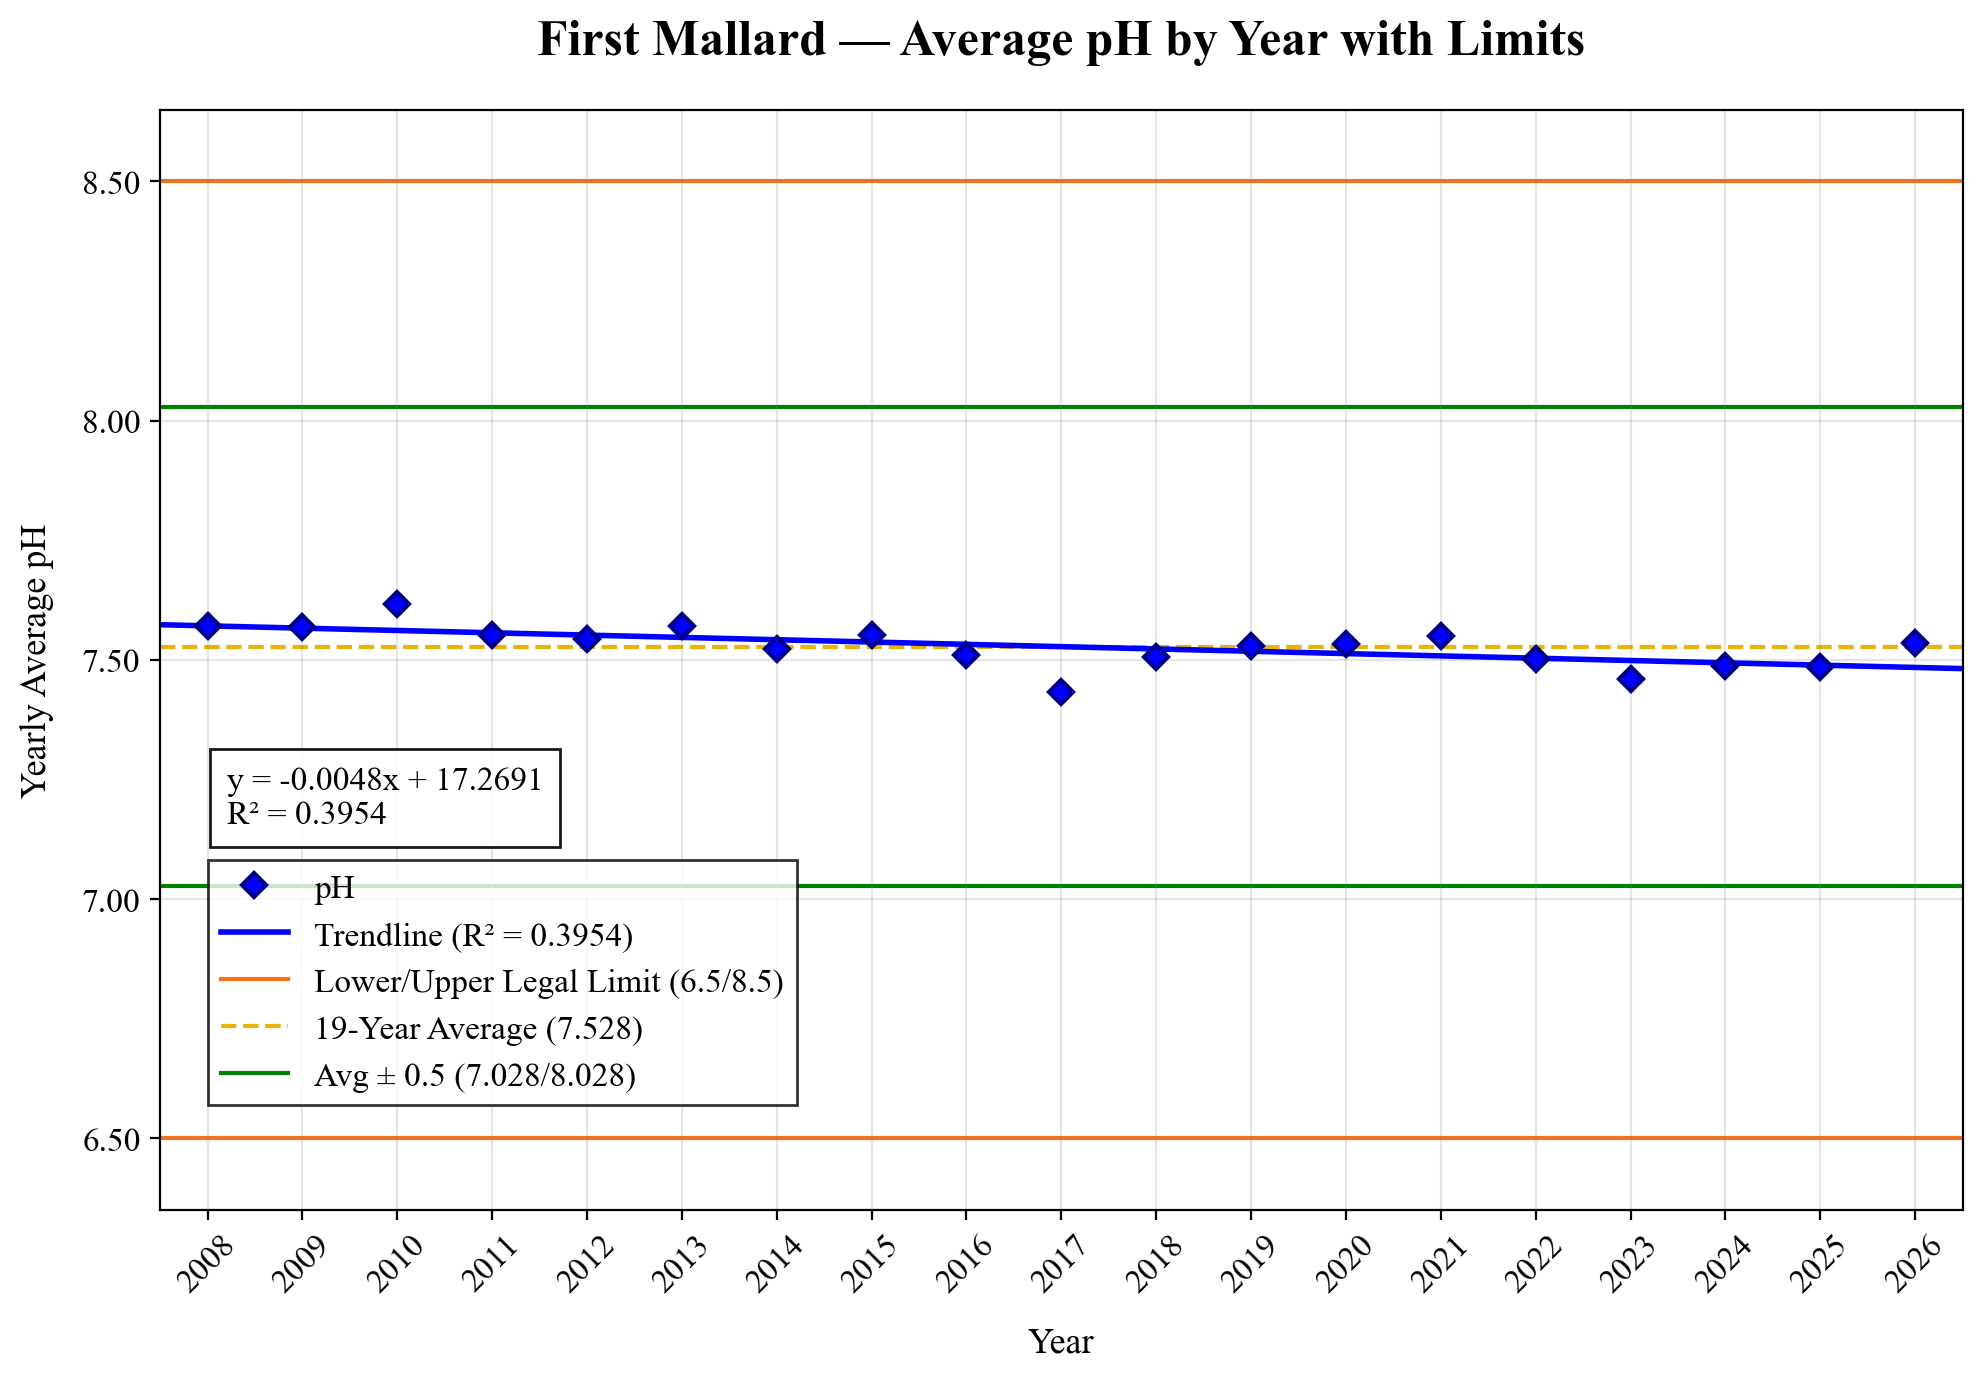
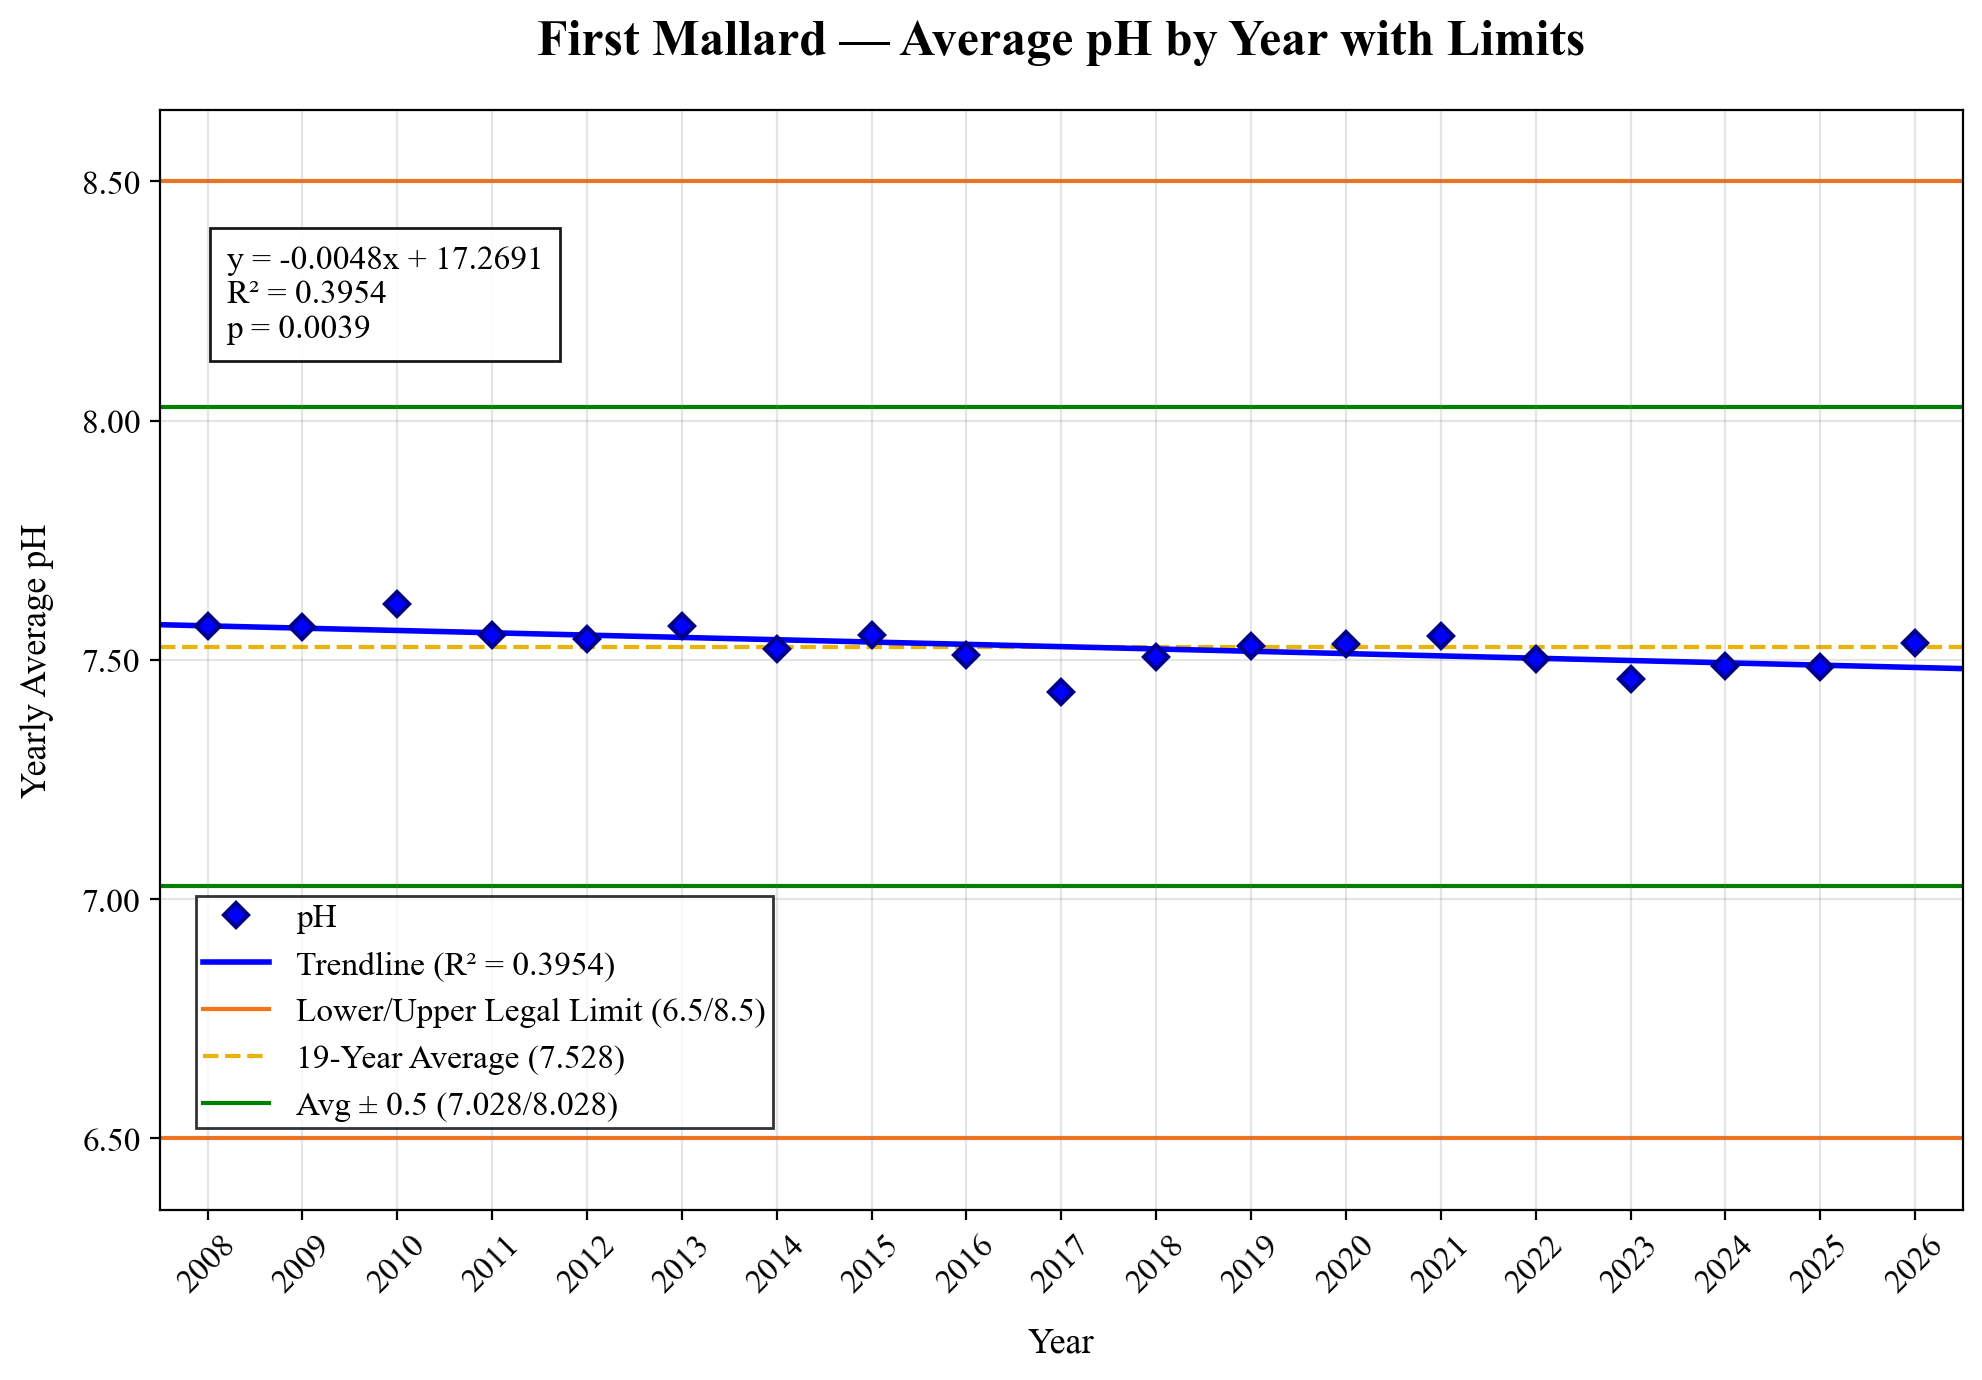
Update First Mallard trend graph with properly centered legend and equation box layout

diff --git a/app.js b/app.js
@@ -313,9 +313,9 @@ function handleMarkerClick(siteName, isState, stats) {
         ? "Statewide aggregated visualization suite."
         : "Station-specific visualization suite.";
         
-    trendGraph.src = `assets/${safeName}_trend.png?v=11`;
-    boxGraph.src = `assets/${safeName}_box.png?v=11`;
-    barGraph.src = `assets/${safeName}_bar.png?v=11`;
+    trendGraph.src = `assets/${safeName}_trend.png?v=12`;
+    boxGraph.src = `assets/${safeName}_box.png?v=12`;
+    barGraph.src = `assets/${safeName}_bar.png?v=12`;
     
     if (stats.equation && stats.r2 && stats.equation !== "N/A") {
         trendStats.innerHTML = `${stats.equation} &nbsp;&nbsp;|&nbsp;&nbsp; ${stats.r2} &nbsp;&nbsp;|&nbsp;&nbsp; ${stats.p}`;

diff --git a/index.html b/index.html
@@ -67,6 +67,6 @@
     <script src="https://unpkg.com/leaflet@1.9.4/dist/leaflet.js" integrity="sha256-20nQCchB9co0qIjJZRGuk2/Z9VM+kNiyxNV1lvTlZBo=" crossorigin=""></script>
     
     <!-- App Logic -->
-    <script src="app.js?v=24"></script>
+    <script src="app.js?v=25"></script>
 </body>
 </html>
